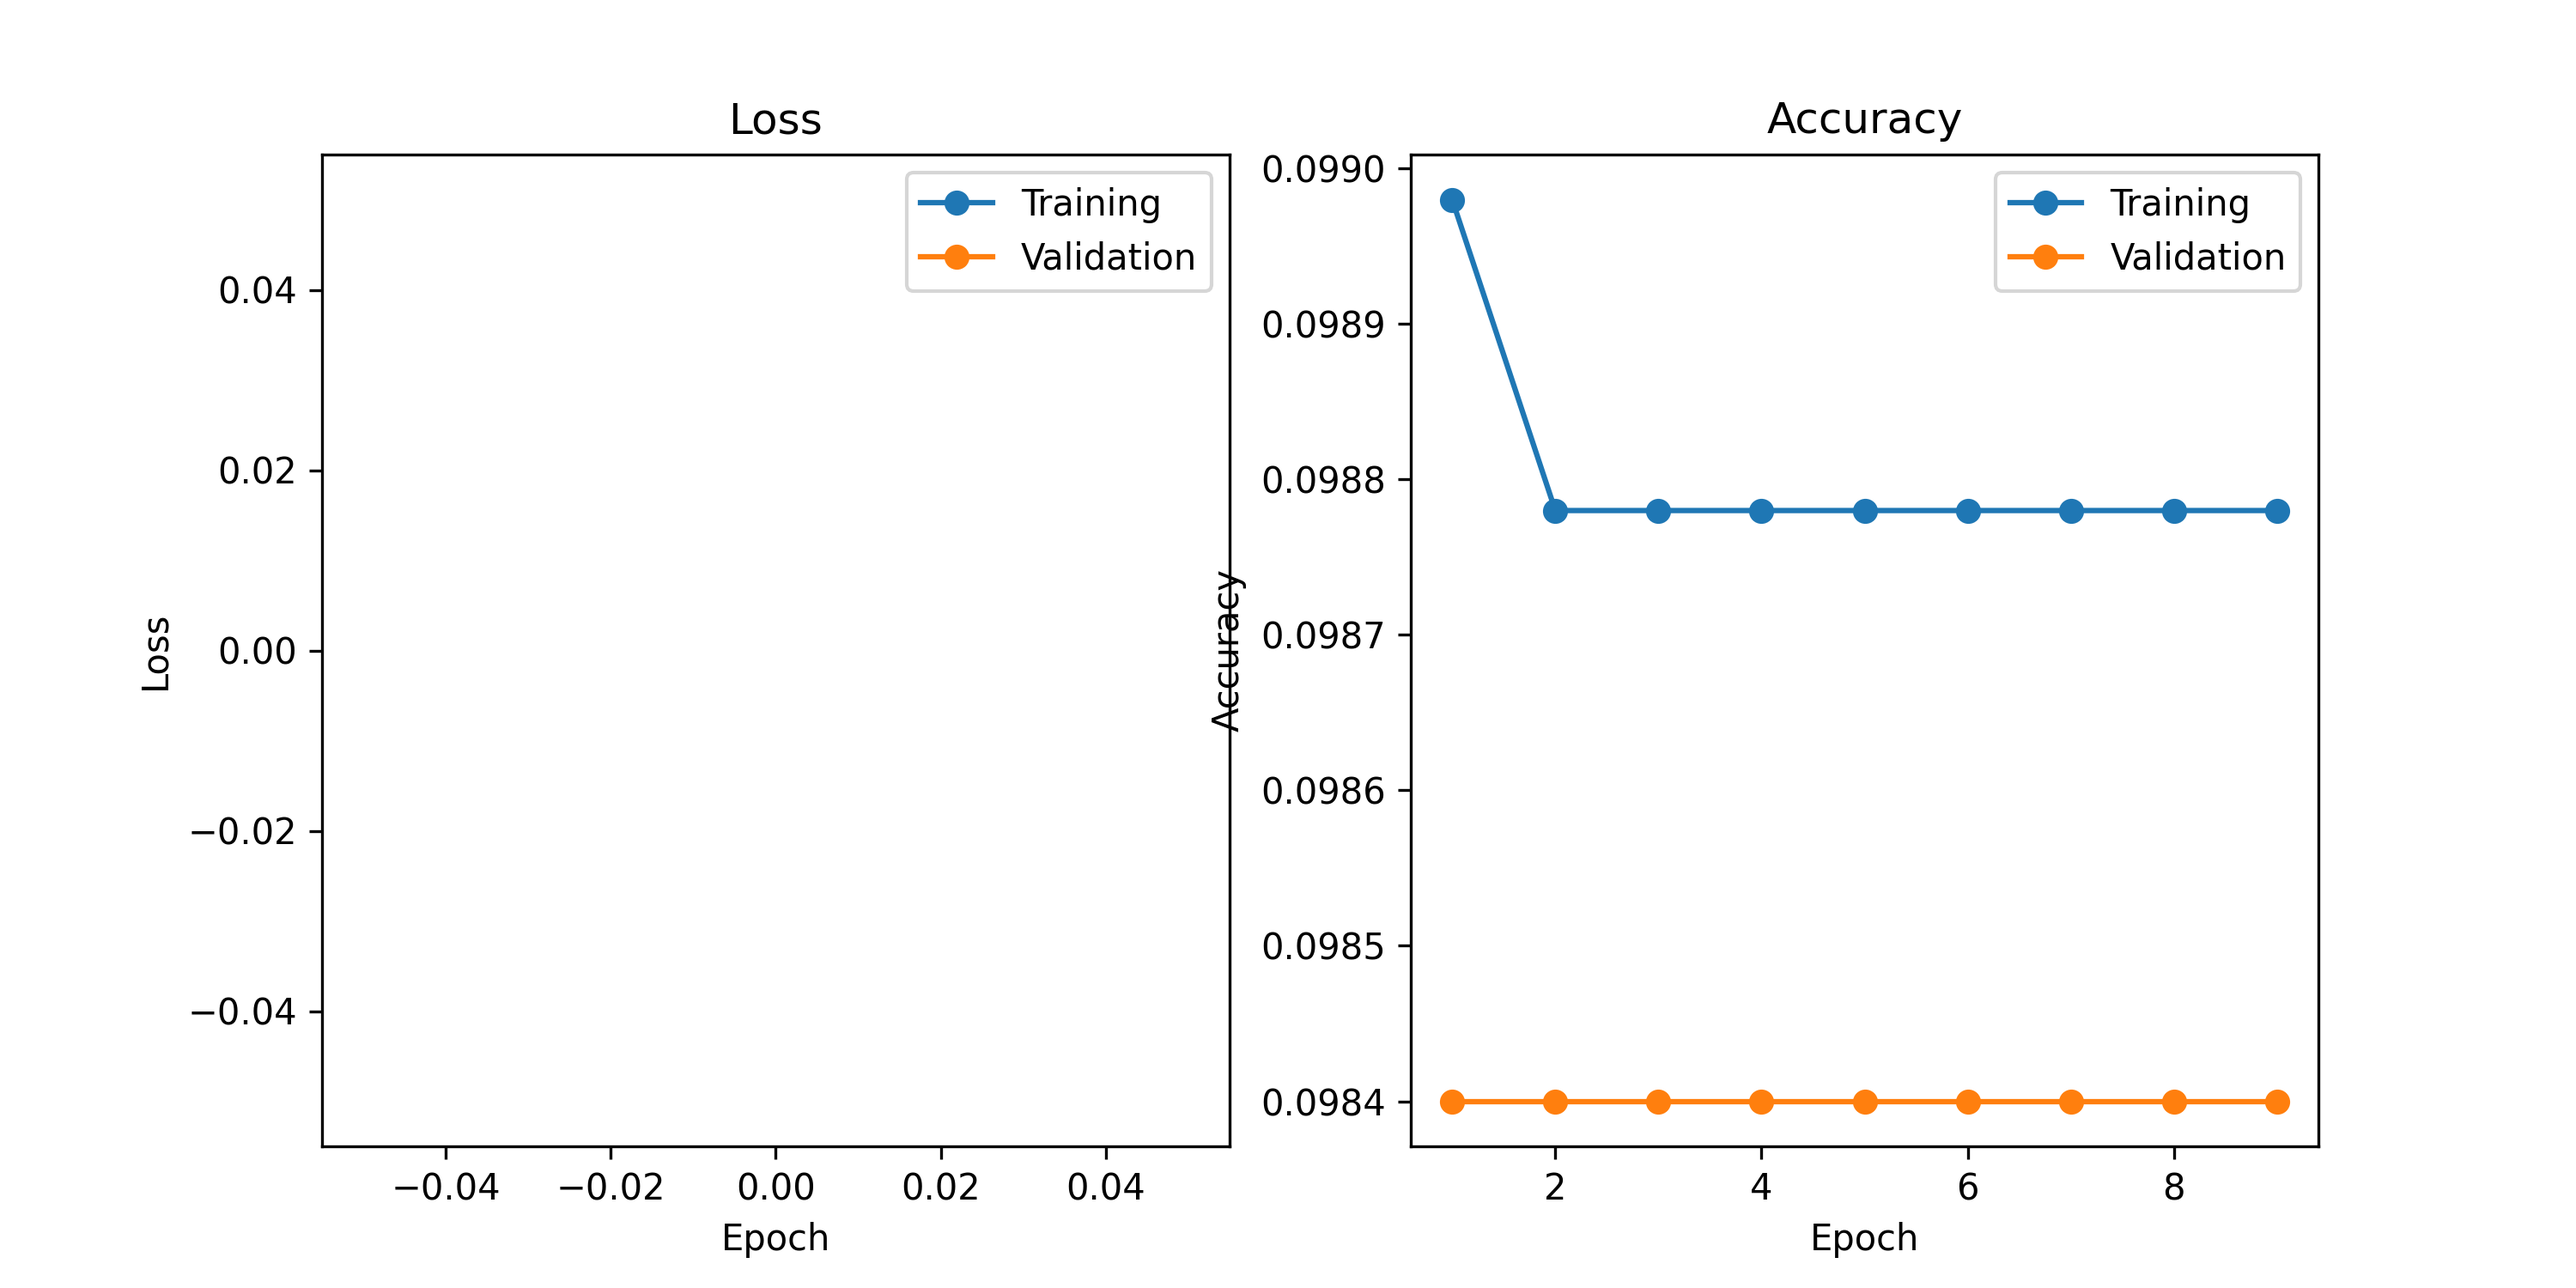
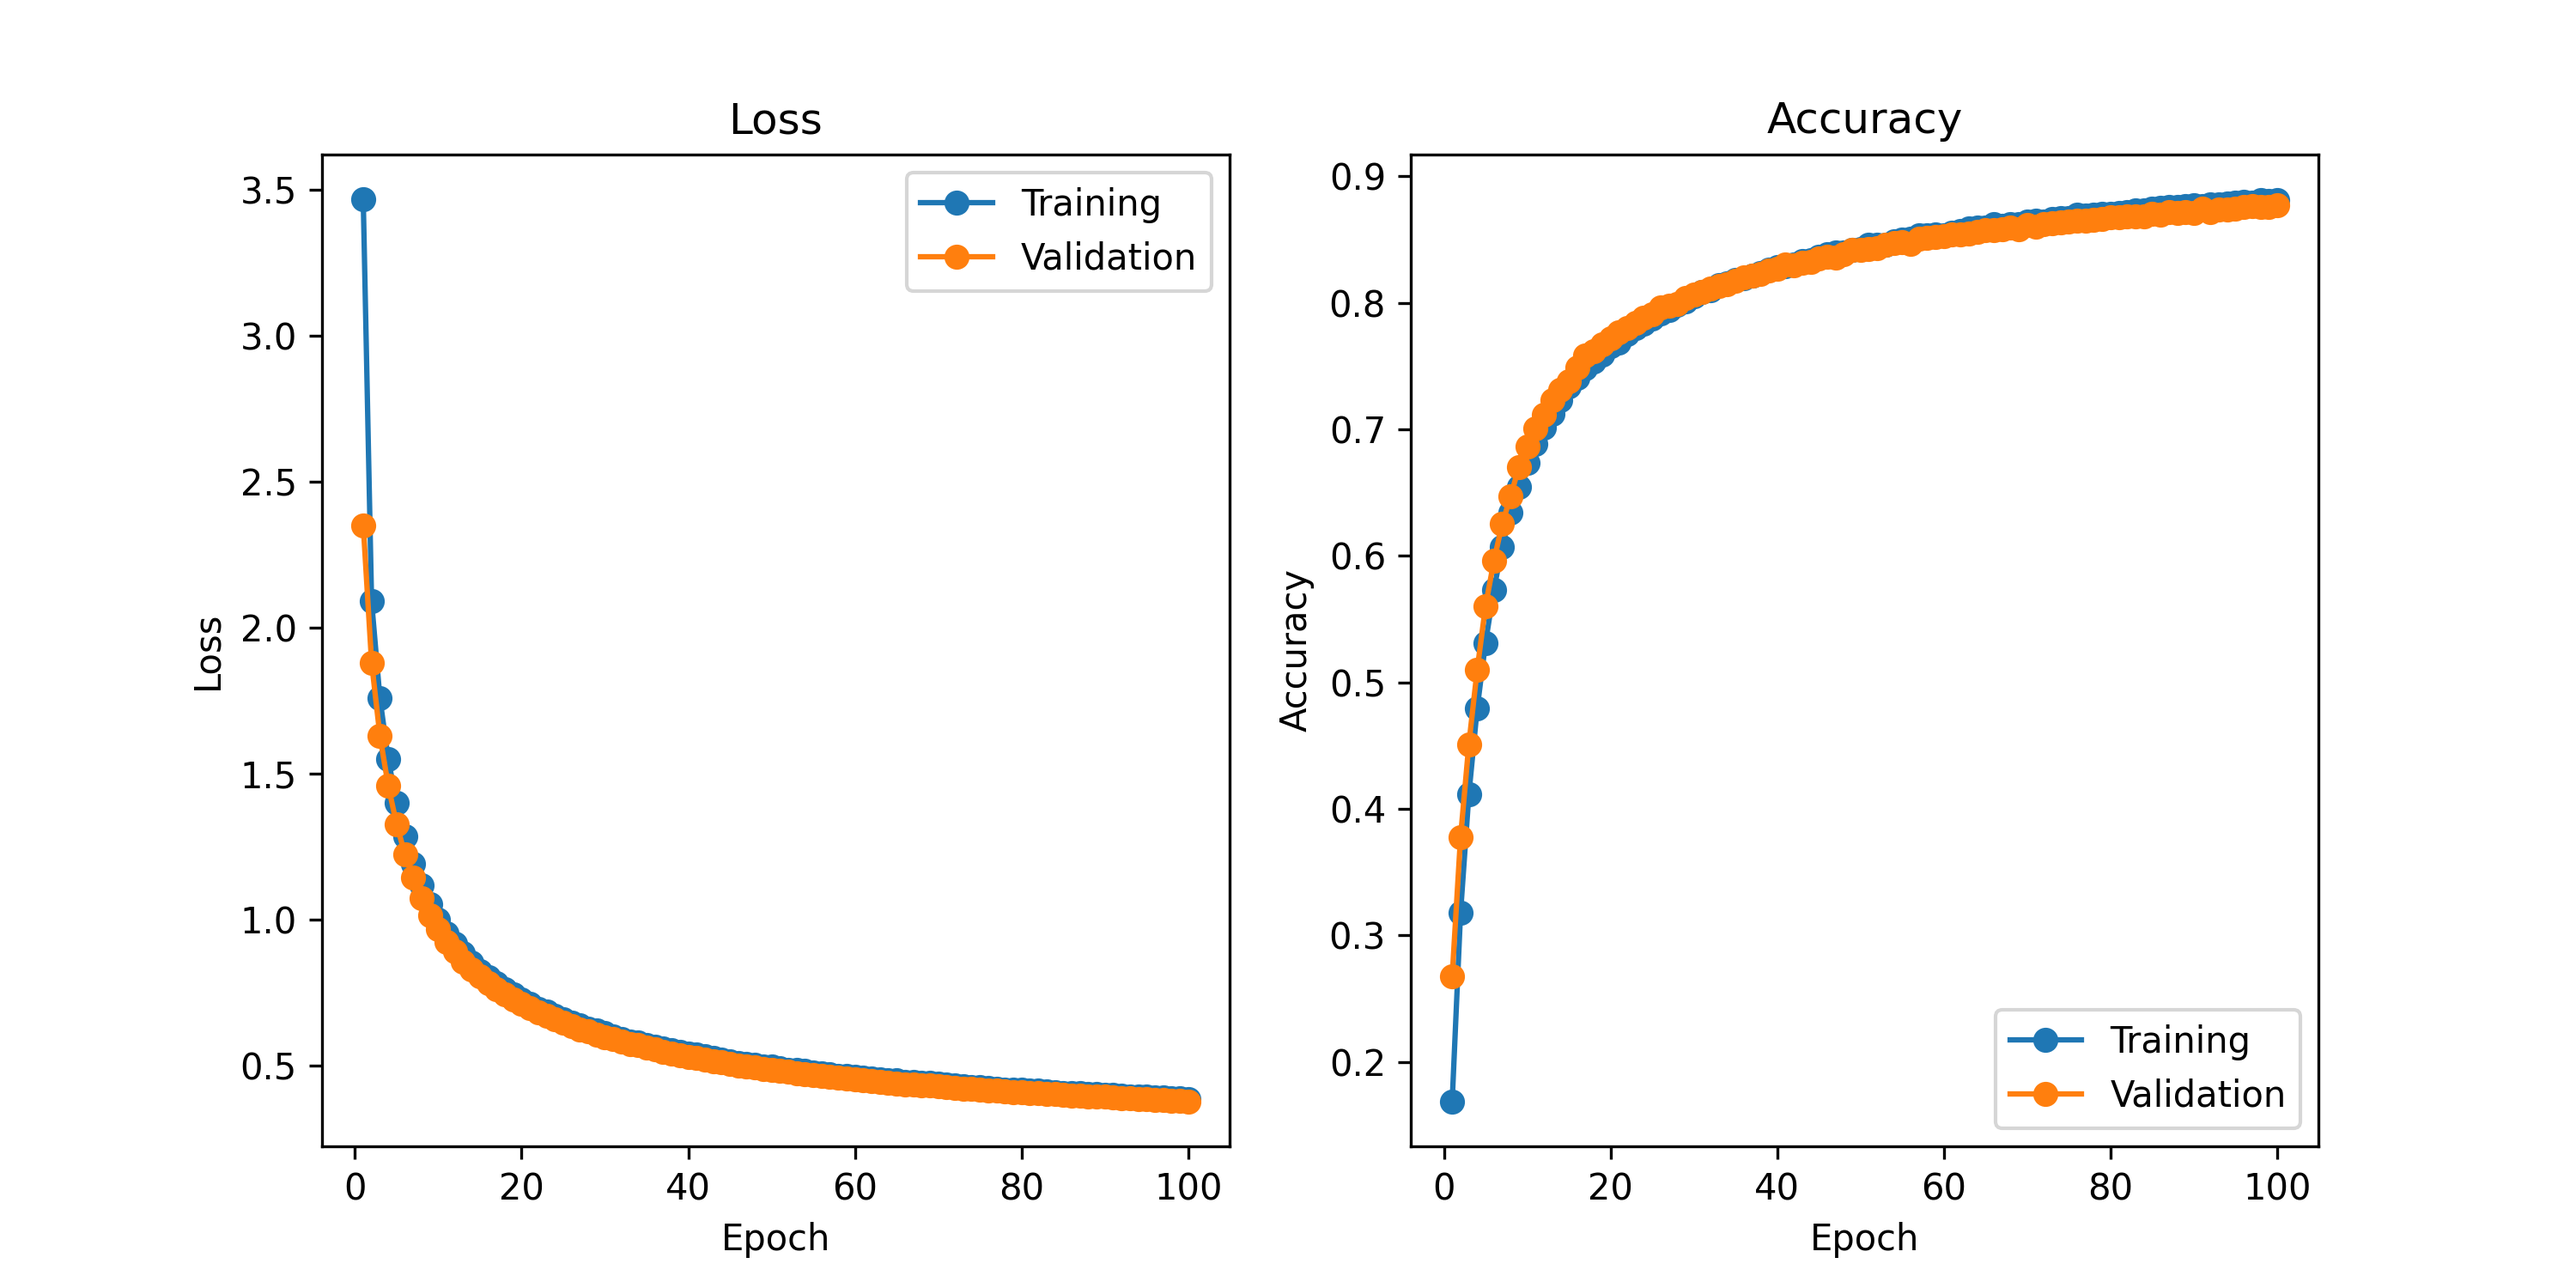
modifs random numbers

diff --git a/train_mnist.py b/train_mnist.py
@@ -21,8 +21,7 @@ def main():
 
 
 def create_network(checkpoint_path):
-    # layers = [FullyConnectedLayer(784, 128), BatchNormalization(128), ReLU(), FullyConnectedLayer(128, 32), BatchNormalization(32), ReLU(), FullyConnectedLayer(32, 10)]
-    layers = [FullyConnectedLayer(784, 128)]
+    layers = [FullyConnectedLayer(784, 128), BatchNormalization(128), ReLU(), FullyConnectedLayer(128, 32), BatchNormalization(32), ReLU(), FullyConnectedLayer(32, 10)]
     network = Network(layers)
     if checkpoint_path is not None:
         network.load(checkpoint_path)

diff --git a/dnn_framework/student/layers.py b/dnn_framework/student/layers.py
@@ -15,8 +15,8 @@ class FullyConnectedLayer(Layer):
         self.output_count = output_count
         # Parameters w and
         self.parameters = {
-            'w': np.zeros(shape=(self.output_count, self.input_count)),
-            'b': np.zeros(shape=(1, self.output_count))
+            'w': np.random.randn(output_count, input_count),
+            'b': np.random.randn(output_count)
         }
 
     def get_parameters(self):
